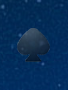
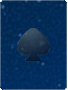
hint, visual update

Changed region(s): [[0.0, 0.0, 1.0, 1.0]]

diff --git a/src/gui/controllers/ColumnController.java b/src/gui/controllers/ColumnController.java
@@ -158,12 +158,12 @@ public class ColumnController extends AnchorPane implements Controller {
 
     public void showHint() {
         if (this.getChildren().size() > 0)
-            this.getChildren().get(this.getChildren().size() - 1).setStyle("-fx-background-radius: 10; -fx-border-radius: 10; -fx-border-color: aliceblue;");
+            this.getChildren().get(this.getChildren().size() - 1).setStyle("-fx-background-radius: 5; -fx-border-radius: 5; -fx-border-color: #07ff1a;");
     }
 
     public void showHint(Card card) {
         for (int i = this.cards.size()-1; i>=0; i--) {
-            this.cards.get(i).setStyle("-fx-background-radius: 10; -fx-border-radius: 10; -fx-border-color: aliceblue;");
+            this.cards.get(i).setStyle("-fx-background-radius: 5; -fx-border-radius: 5; -fx-border-color: #25ff20;");
             if (this.cards.get(i).getCard().equals(card)) {
                 break;
             }

diff --git a/src/gui/controllers/PreviewController.java b/src/gui/controllers/PreviewController.java
@@ -126,7 +126,7 @@ public class PreviewController extends AnchorPane implements Controller {
     }
 
     public void showHint(){
-        ((CardController)this.getChildren().get(0)).setStyle("-fx-background-radius: 10; -fx-border-radius: 10; -fx-border-color: aliceblue;");
+        ((CardController)this.getChildren().get(0)).setStyle("-fx-background-radius: 5; -fx-border-radius: 5; -fx-border-color: #25ff20;");
     }
 
 

diff --git a/src/gui/controllers/GoalController.java b/src/gui/controllers/GoalController.java
@@ -130,7 +130,7 @@ public class GoalController extends AnchorPane  implements Controller {
     }
 
     public void showHint(){
-        this.getChildren().get(0).setStyle("-fx-background-radius: 10; -fx-border-radius: 10; -fx-border-color: aliceblue;");
+        this.getChildren().get(0).setStyle("-fx-background-radius: 5; -fx-border-radius: 5; -fx-border-color: #25ff20;");
     }
 
 

diff --git a/src/gui/controllers/PackController.java b/src/gui/controllers/PackController.java
@@ -121,7 +121,7 @@ public class PackController extends AnchorPane implements Controller{
     }
 
     public void showHint(){
-        this.getChildren().get(0).setStyle("-fx-background-radius: 10; -fx-border-radius: 10; -fx-border-color: aliceblue;");
+        this.getChildren().get(0).setStyle("-fx-background-radius: 5; -fx-border-radius: 5; -fx-border-color: #25ff20;");
     }
 
 

diff --git a/src/gui/AlertManager.java b/src/gui/AlertManager.java
@@ -44,8 +44,6 @@ public class AlertManager {
         Optional<ButtonType> result = alert.showAndWait();
         if (result.get() == buttonTypeNewGame){
             gameController.newGameHandler(null);
-        } else {
-            alert.showAndWait();
         }
     }
 }
